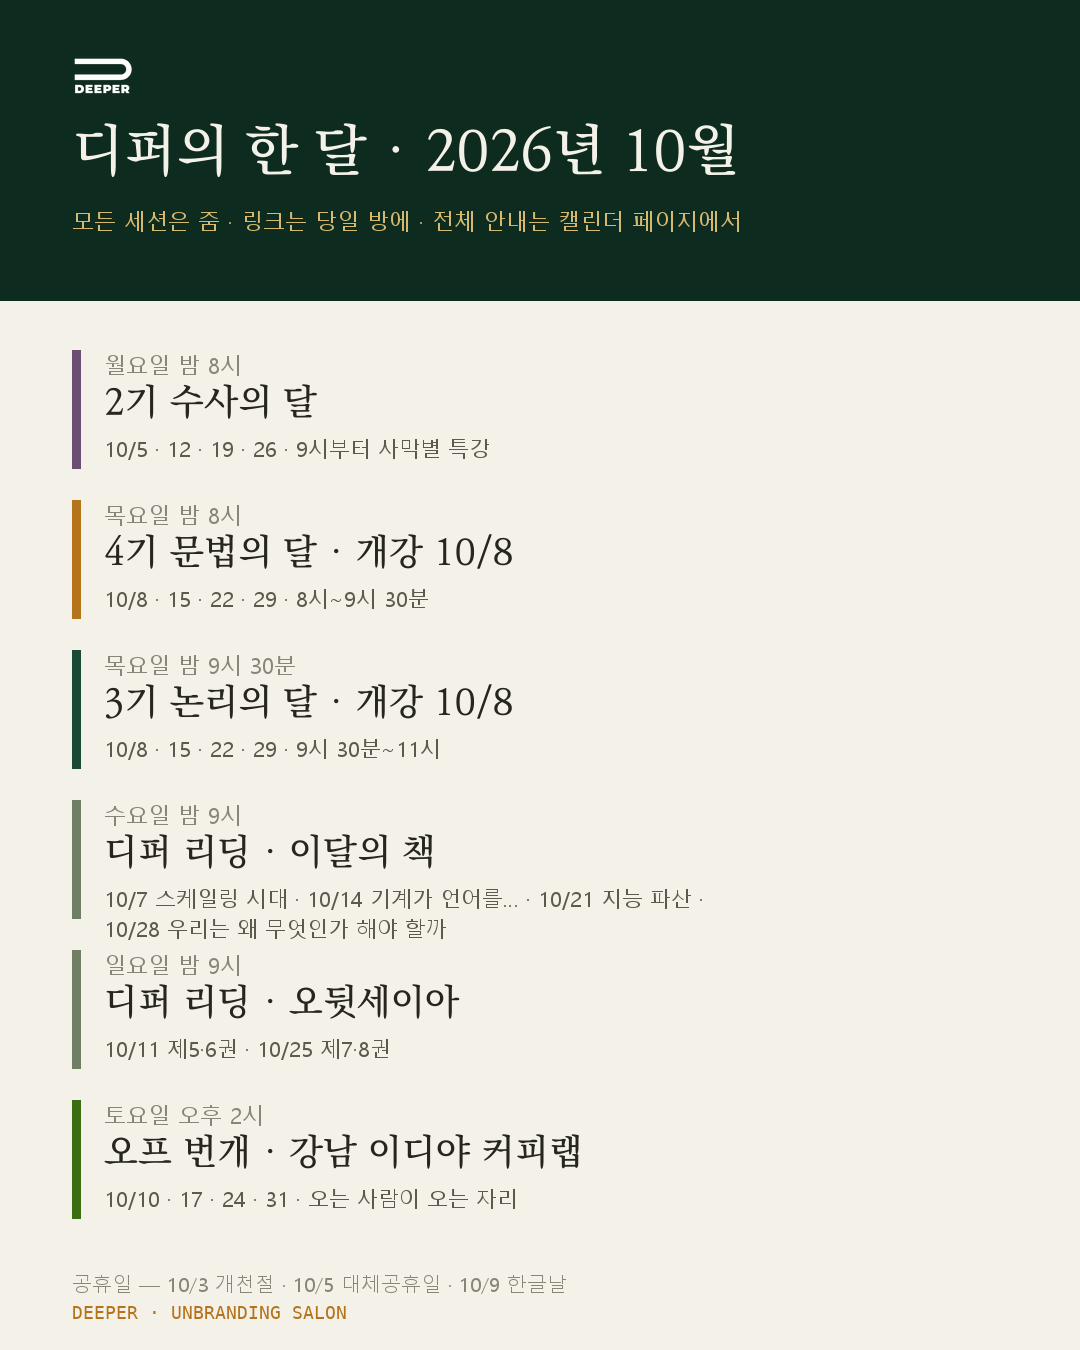
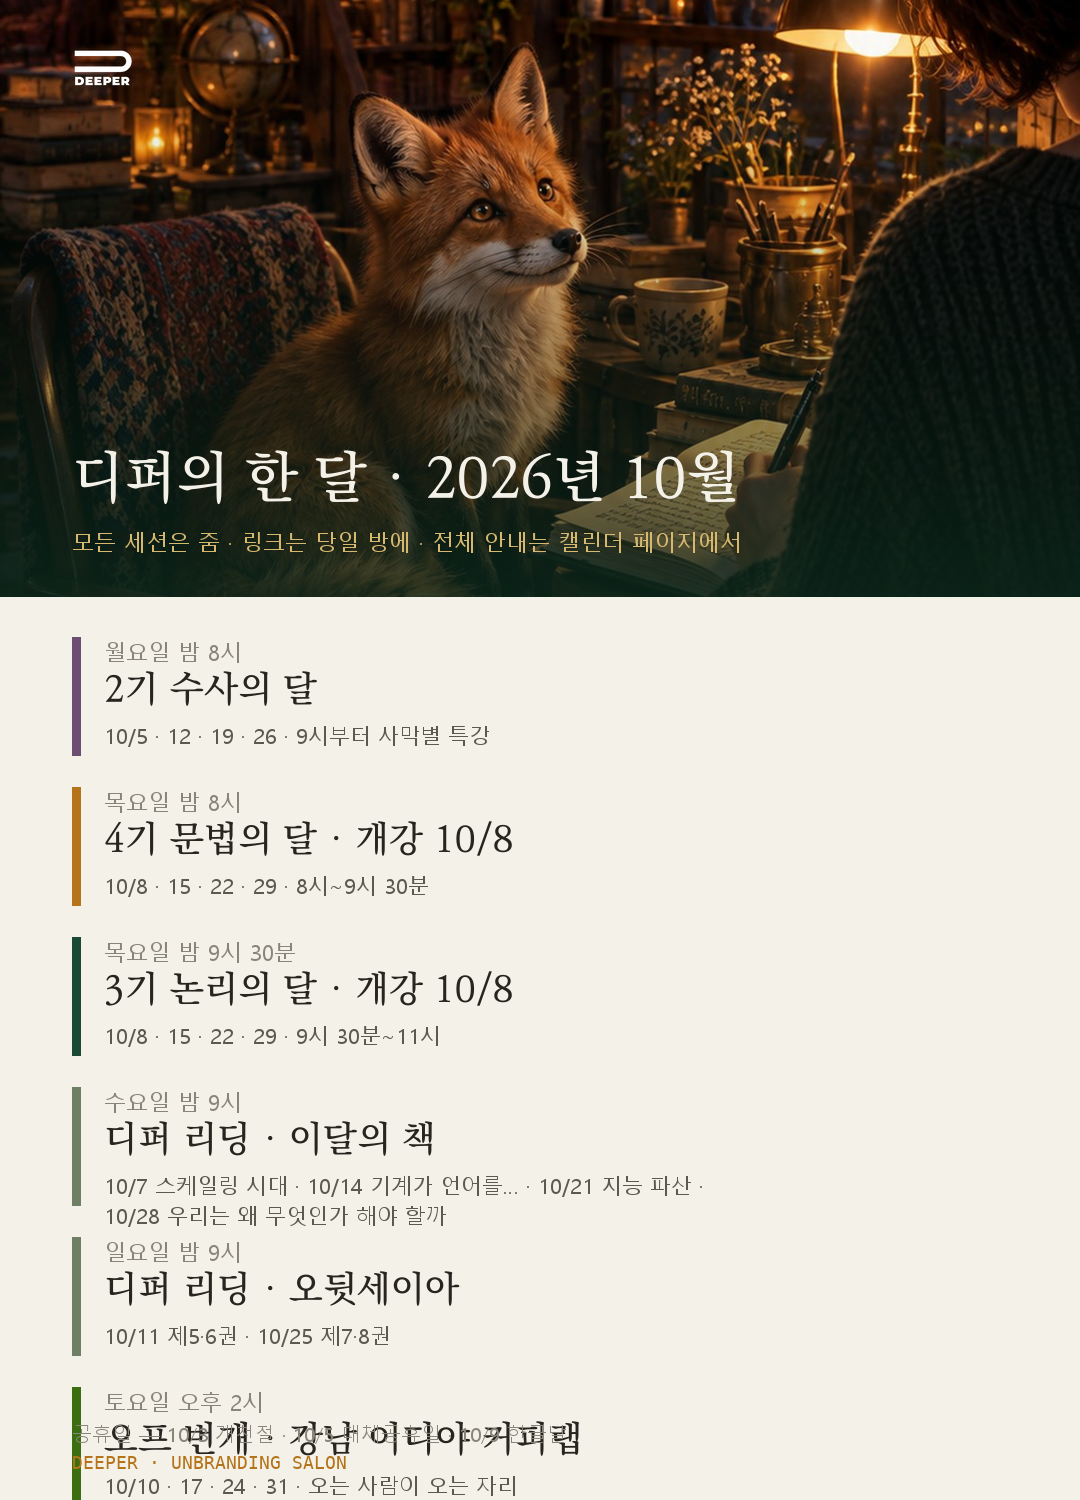
[calendar] 10월 — 사막여우 히어로 · 콤포스텔라 2구간 피스테라 이어 표기 · 폼 카드 갱신

diff --git a/deeper_calendar_2026-10.html b/deeper_calendar_2026-10.html
@@ -25,7 +25,10 @@
   }
   *{margin:0;padding:0;box-sizing:border-box;}
   body{background:var(--paper);color:var(--ink);font-family:"Noto Serif KR","Nanum Myeongjo","Apple SD Gothic Neo","Malgun Gothic",serif;line-height:1.6;-webkit-font-smoothing:antialiased;word-break:keep-all;overflow-wrap:break-word;}
-  .wrap{max-width:1080px;margin:0 auto;padding:48px 24px 64px;}
+  .wrap{max-width:1080px;margin:0 auto;padding:0 24px 64px;}
+  .hero{margin:0 -24px 40px;max-height:380px;overflow:hidden;}
+  .hero img{width:100%;height:auto;display:block;}
+  @media (max-width:700px){ .hero{margin:0 -16px 28px;max-height:220px;} }
   header{text-align:center;margin-bottom:36px;}
   header img.logo{height:34px;width:auto;display:inline-block;margin-bottom:18px;}
   h1{font-size:26px;font-weight:700;letter-spacing:.06em;color:var(--green-deep);}
@@ -129,10 +132,11 @@
 <body>
 <div class="wrap">
 
+  <div class="hero"><img src="calendar/fox_02_banner.jpg" alt="곁의 사막여우"></div>
   <header>
     <img class="logo" src="logic/DEEPER_logo.png" alt="DEEPER">
     <h1>디퍼의 한 달</h1>
-    <p class="subtitle">디퍼 언브랜딩살롱 <b>2기 · 수사의 달</b> &nbsp;·&nbsp; <b>3기 · 논리의 달</b> &nbsp;·&nbsp; <b>4기 · 문법의 달</b><br>디퍼 리딩 여섯 밤 &nbsp;·&nbsp; 토요일 오프 번개 &nbsp;·&nbsp; 디퍼 콤포스텔라 1기 완주</p>
+    <p class="subtitle">디퍼 언브랜딩살롱 <b>2기 · 수사의 달</b> &nbsp;·&nbsp; <b>3기 · 논리의 달</b> &nbsp;·&nbsp; <b>4기 · 문법의 달</b><br>디퍼 리딩 여섯 밤 &nbsp;·&nbsp; 토요일 오프 번개 &nbsp;·&nbsp; <b>디퍼 콤포스텔라 1기</b> 1구간 완주 → 2구간 피스테라</p>
     <p class="period">2026. 10. 1 (THU) — 2026. 10. 31 (SAT)</p>
     <div class="rule"></div>
   </header>
@@ -143,7 +147,7 @@
     <span class="li"><span class="dot d-o"></span>디퍼 언브랜딩살롱 <b>4기 · 문법의 달</b> — 목요일 밤 8시</span>
     <span class="li"><span class="dot d-s"></span><b>디퍼 리딩</b> — 전체 디퍼 함께 · 수요일 밤 9시 · 일요일 밤 9시</span>
     <span class="li"><span class="dot d-m"></span><b>토요일 오프 번개</b> — 오후 2시 · 강남 이디야 커피랩 · 오는 사람이 오는 자리</span>
-    <span class="li"><span class="dot d-c"></span><b>디퍼 콤포스텔라 1기</b> — 1구간 완주</span>
+    <span class="li"><span class="dot d-c"></span><b>디퍼 콤포스텔라 1기</b> — 비즈니스 트랙 · 월요일 오전 · 1구간 프리미티보 완주 → 2구간 피스테라</span>
   </div>
 
   <section class="month">
@@ -167,7 +171,7 @@
           <td>
             <div class="dnum">10/5</div>
             <div class="hol">개천절 대체공휴일</div>
-            <div class="ev ev-c"><b>콤포스텔라 ④ · 1구간 완주</b><br><span class="t">오전 10~12시</span></div>
+            <div class="ev ev-c"><b>콤포스텔라 ④ · 1구간 프리미티보 완주</b><br><span class="t">오전 10~12시</span></div>
             <div class="ev ev-p"><b>수사 1회차 · 선율 — 명명</b><br><span class="t">밤 8시 · 줌 — 9시부터 사막별 특강</span></div>
           </td>
           <td><div class="dnum">10/6</div></td>
@@ -190,6 +194,7 @@
           </td>
           <td>
             <div class="dnum">10/12</div>
+            <div class="ev ev-c"><b>콤포스텔라 ⑤ · 2구간 피스테라 시작</b><br><span class="t">오전 10~12시</span></div>
             <div class="ev ev-p"><b>수사 2회차 · 변주 — 채널</b><br><span class="t">밤 8시 · 줌 — 9시부터 사막별 특강</span></div>
           </td>
           <td><div class="dnum">10/13</div></td>
@@ -209,6 +214,7 @@
           <td><div class="dnum">10/18</div></td>
           <td>
             <div class="dnum">10/19</div>
+            <div class="ev ev-c"><b>콤포스텔라 ⑥</b><br><span class="t">오전 10~12시</span></div>
             <div class="ev ev-p"><b>수사 3회차 · 일관성 — 편집</b><br><span class="t">밤 8시 · 줌 — 9시부터 사막별 특강</span></div>
           </td>
           <td><div class="dnum">10/20</div></td>
@@ -231,6 +237,7 @@
           </td>
           <td>
             <div class="dnum">10/26</div>
+            <div class="ev ev-c"><b>콤포스텔라 ⑦</b><br><span class="t">오전 10~12시</span></div>
             <div class="ev ev-p"><b>수사 4회차 · 하모니 — 매니페스토 · 종강</b><br><span class="t">밤 8시 · 줌 — 9시부터 사막별 특강 · 끝 30분, 이수자가 여는 방 소개</span></div>
           </td>
           <td><div class="dnum">10/27</div></td>
@@ -349,9 +356,31 @@
         <div class="wk"><div class="n">10/5</div><div class="b"><b>선율 — 명명</b><span>내가 서 있을 자리. 분더카머(경이의 방)를 둘러보고 으뜸음과 이름을 찾습니다. 『에디톨로지』 프롤로그와 1부.</span></div></div>
         <div class="wk"><div class="n">10/12</div><div class="b"><b>변주 — 채널</b><span>내 목소리가 사는 자리. 작게 소리 내고 첫 발행. 『에디톨로지』 2부.</span></div></div>
         <div class="wk"><div class="n">10/19</div><div class="b"><b>일관성 — 편집</b><span>목차와 초고 조립. 나답지 않은 문장 지우기. 『에디톨로지』 3부와 에필로그.</span></div></div>
-        <div class="wk"><div class="n">10/26</div><div class="b"><b>하모니 — 매니페스토 · 종강</b><span>다섯에서 일곱 줄의 매니페스토와 낭독. 끝 30분, 이수한 별지기님들이 여는 방을 소개합니다.</span></div></div>
+        <div class="wk"><div class="n">10/26</div><div class="b"><b>하모니 — 매니페스토 · 종강</b><span>다섯에서 일곱 줄의 매니페스토와 낭독. 끝 30분, 콤포스텔라를 걷는 별지기님들이 여는 방을 소개합니다.</span></div></div>
       </div>
 
+    </div>
+  </section>
+
+
+  <section class="sec">
+    <div class="sec-head"><h2>디퍼 콤포스텔라 1기 — 두 구간</h2><span class="lead">비즈니스 트랙 · 월요일 오전 10시 · 여덟 분</span></div>
+    <p class="sec-desc">살롱을 완주한 별지기님들과 2기 세 분이 걷는 길입니다. 문법·논리·수사가 나를 캐고 세우고 부르는 달이라면, 콤포스텔라는 그것을 <b>나만의 AX 전문성</b>으로 바꾸는 길입니다. 1구간 프리미티보에서 보이는 세컨드 브레인 한 벌과 사례 0호를 만들었고, 2구간 피스테라에서는 그것으로 수익화의 첫 건을 냅니다. 10월 월요일 밤 사막별 특강과 종강 밤의 「이수자가 여는 방」은 이분들이 여는 자리입니다.</p>
+    <div class="courses">
+      <div class="course" style="border-top-color:var(--clay)">
+        <div class="tag">COMPOSTELA · 1구간 · CAMINO PRIMITIVO</div>
+        <h3>자산화 — 보이는 세컨드 브레인</h3>
+        <div class="time"><b>9/7 · 9/21 · 9/28 · 10/5</b> · 월요일 오전 10~12시 · 줌</div>
+        <div class="intro">내 일의 판단 기준을 꺼내 포트폴리오 세컨브레인으로 세우고, 5분 시연 각본과 사례 0호까지. 10월 5일, 여덟 분이 1구간을 완주합니다.</div>
+        <div class="wk"><div class="n">①~④</div><div class="b"><b>프리미티보를 걷다</b><span>원천을 자산으로 · 시연 각본 · 사례 0호 · 완주</span></div></div>
+      </div>
+      <div class="course" style="border-top-color:var(--clay)">
+        <div class="tag">COMPOSTELA · 2구간 · CAMINO FISTERRA</div>
+        <h3>수익화 — 첫 건을 낸다</h3>
+        <div class="time"><b>10/12 · 10/19 · 10/26 · 11/2</b> · 월요일 오전 10~12시 · 줌</div>
+        <div class="intro">1구간에서 세운 자산으로 시장을 마주합니다. 면밀하게 시장성을 살펴 사업을 진단하고, 첫 고객과 첫 수익화까지. 땅끝 피스테라에서 별을 봅니다.</div>
+        <div class="wk"><div class="n">⑤~⑧</div><div class="b"><b>피스테라를 걷다</b><span>시장성 진단 · 오퍼 · 첫 고객 · 11월 2일 완주</span></div></div>
+      </div>
     </div>
   </section>
 
